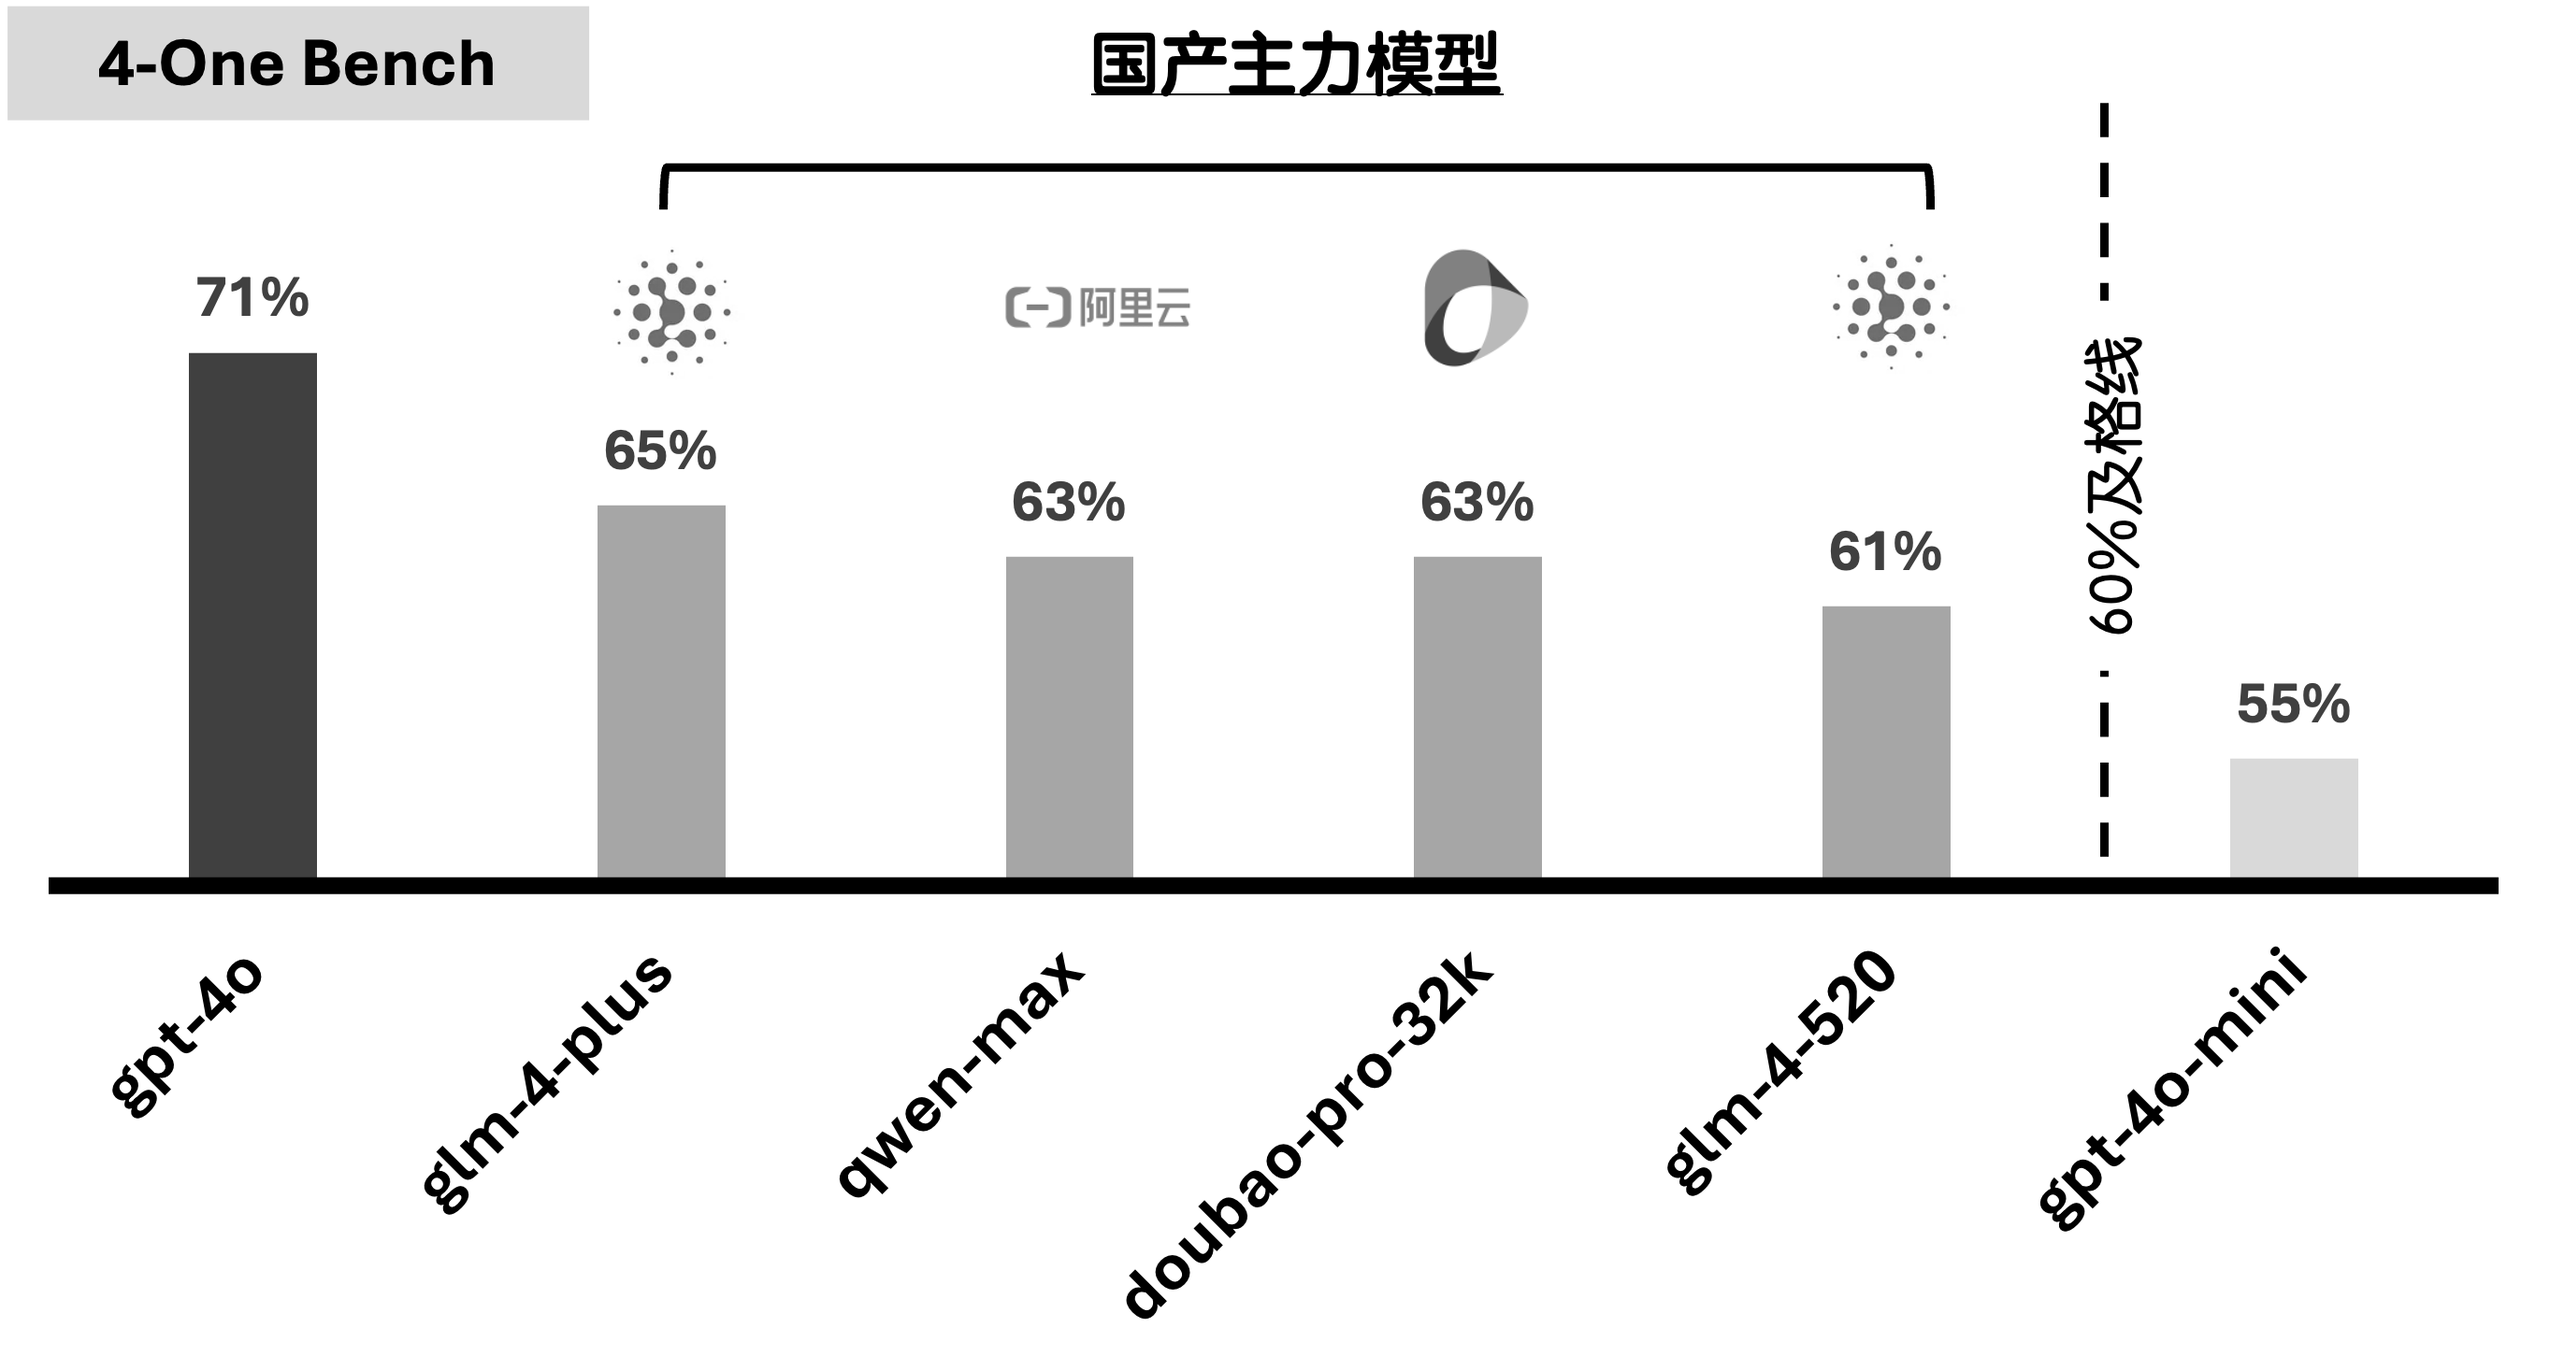
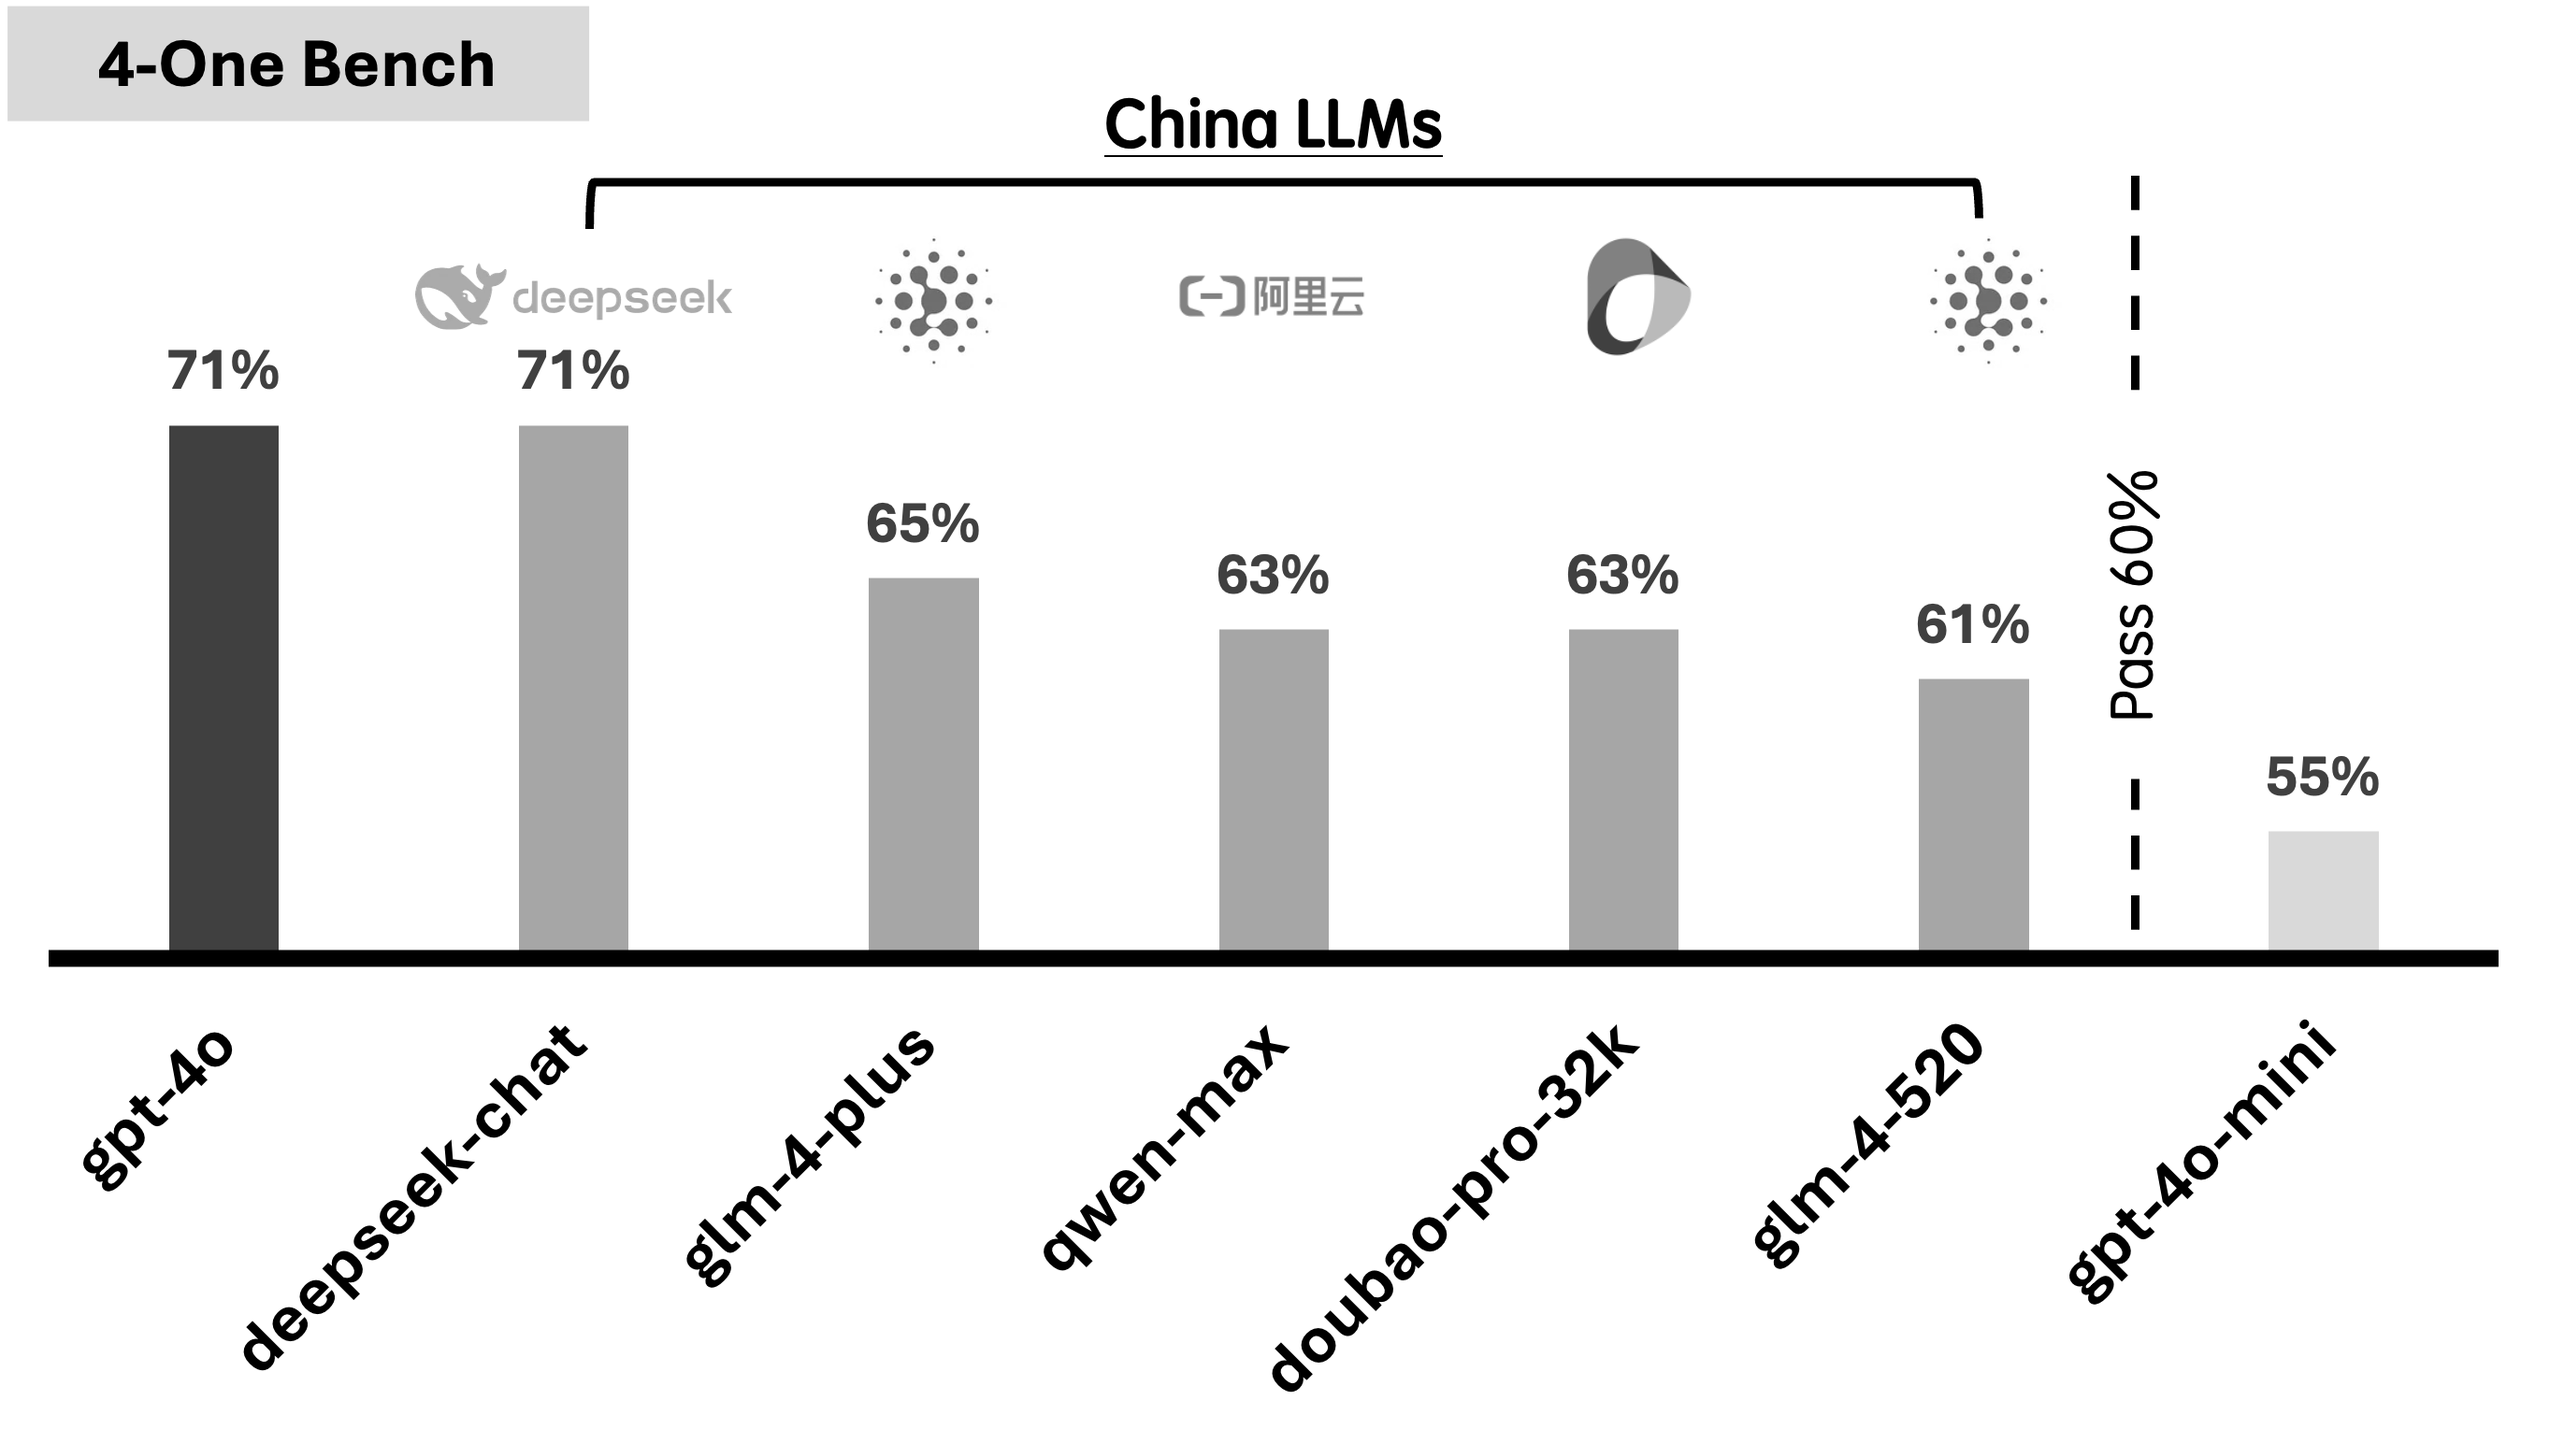
Update to support the model 'deepseek-chat'

diff --git a/app/llms/general.py b/app/llms/general.py
@@ -1,5 +1,5 @@
 import os
-from llms import zhipu,openai,qwen,doubao
+from llms import zhipu,openai,qwen,doubao,deepseek
 from util import constant
 from util.tools import extract_json
 from util.logger import logger
@@ -25,6 +25,10 @@ def complete_verify(sys_msg, usr_msg):
         messages = doubao.format_messages(sys_msg,usr_msg)
         data_json = doubao.completion(messages, temperature=0, model=constant.DOUBAO_VERIFIER)
         result = extract_json(data_json)
+    elif model in constant.DEEPSEEK_FAMILY:
+        messages = deepseek.format_messages(sys_msg,usr_msg)
+        data_json = deepseek.completion(messages, temperature=1.0, model=constant.DEEPSEEK_VERIFIER)
+        result = extract_json(data_json) 
     return result
 
 
@@ -45,10 +49,15 @@ def complete(sys_msg, usr_msg):
         result = qwen.completion(messages, 
                                 model= model, 
                                 temperature=0)
-    elif model in constant.DOUBAOPRO32K:
+    elif model in constant.DOUBAO_FAMILY:
         messages = doubao.format_messages(sys_msg,usr_msg)
         result = doubao.completion(messages, 
                                 model= model, 
                                 temperature=0)
+    elif model in constant.DEEPSEEK_FAMILY:
+        messages = deepseek.format_messages(sys_msg,usr_msg)
+        result = deepseek.completion(messages, 
+                                model= model, 
+                                temperature=1.0)
     return result
     

diff --git a/app/app.py b/app/app.py
@@ -49,7 +49,7 @@ if "few_shots" not in st.session_state:
 with st.sidebar:
     st.session_state.model = st.selectbox(
         "生成模型：", 
-        ('glm-4-plus','glm-4-0520', 'glm-4-flash','glm-4-air','gpt-4o','gpt-4o-mini','qwen-max', 'qwen-plus', 'doubao-pro-32k')
+        ('glm-4-plus','glm-4-0520', 'glm-4-flash','glm-4-air','gpt-4o','gpt-4o-mini','qwen-max', 'qwen-plus', 'doubao-pro-32k', 'deepseek-chat')
     )
     if st.session_state.model:
         os.environ['MODEL'] = st.session_state.model
@@ -59,7 +59,7 @@ with st.sidebar:
         END_POINT = st.text_input("模型接入点", placeholder="接入点名称")
         
     num_of_record = st.number_input("数据条数:", value=1, max_value=len(st.session_state.few_shots), min_value=1)
-    st.write(f"我们使用：\n1. **{constant.OPENAI_VERIFIER}** 验证 OpenAI 系列模型； \n2. **{constant.GLM_VERIFIER}** 验证 GLM 系列模型； \n3. **{constant.QWEN_VERIFIER}** 验证 QWEN 系列模型； \n4. **{constant.DOUBAO_VERIFIER}** 验证 DOUBAO 系列模型。")
+    st.write(f"我们使用：\n1. **{constant.OPENAI_VERIFIER}** 验证 OpenAI 系列模型； \n2. **{constant.GLM_VERIFIER}** 验证 GLM 系列模型； \n3. **{constant.QWEN_VERIFIER}** 验证 QWEN 系列模型； \n4. **{constant.DOUBAO_VERIFIER}** 验证 DOUBAO 系列模型。\n5. **{constant.DEEPSEEK_VERIFIER}** 验证 DEEPSEEK 系列模型。")
 
 # Setup tabs    
 tab_eval,tab_questionnir = st.tabs(["评估", "问题列表"])

diff --git a/app/llms/deepseek.py b/app/llms/deepseek.py
@@ -1,0 +1,48 @@
+import os
+from dotenv import load_dotenv
+from openai import OpenAI
+from util import constant
+
+load_dotenv()
+
+def launch_client():
+    API_KEY = os.getenv('API_KEY')
+    if API_KEY is None:
+        API_KEY = os.getenv('DEEPSEEK_API_KEY')
+    os.environ["OPENAI_API_KEY"] = API_KEY
+    client = OpenAI(api_key=API_KEY, base_url="https://api.deepseek.com")
+    return client
+
+def format_messages(sys_msg, user_msg, historicals=None):
+    messages = []
+    if sys_msg != "":
+        messages.append({"role": "system", "content": sys_msg})
+    
+    if historicals:
+        for s in historicals:
+            messages.append({"role": s["role"], "content": s["content"]})
+    
+    if user_msg != "":
+        messages.append( {"role": "user", "content": user_msg})   
+    #print(f"messages are sent to llms: \n\n {messages}")
+    return messages
+
+def completion(
+        msgs,
+        model = constant.DEEPSEEKCHAT,
+        stream = False,
+        temperature = 0.05
+    ):
+    client = launch_client()
+    full_response = ""
+    completion = client.chat.completions.create(
+        model = model,
+        messages = msgs,
+        temperature = temperature
+    )
+
+    if stream:
+        for chunk in completion:
+            full_response += chunk.choices[0].delta.content
+    else: full_response += completion.choices[0].message.content
+    return full_response

diff --git a/app/util/constant.py b/app/util/constant.py
@@ -24,6 +24,11 @@ DOUBAOPRO32K = "doubao-pro-32k"
 DOUBAO_VERIFIER = DOUBAOPRO32K
 DOUBAO_FAMILY = [DOUBAOPRO32K]
 
+#DEEPSEEK
+DEEPSEEKCHAT = "deepseek-chat"
+DEEPSEEK_VERIFIER = DEEPSEEKCHAT
+DEEPSEEK_FAMILY = [DEEPSEEKCHAT]
+
 DEFAULT_MODEL = GLM4PLUS
 
 MAX_RETRY = 3

diff --git a/README.md b/README.md
@@ -29,6 +29,12 @@ Considering the critical factors of response time and accuracy in real business 
 4-One Bench has developed a proprietary syntax for defining the orchestration of IT assets. Users also have the flexibility to create their own custom syntax.
 ![Syntax](images/syntax.png)
 
+## LLMs Supported
+1. OpenAI: gpt-4o, gpt-4o-mini; 
+2. Zhipu: glm-4-plus, glm-4-0520, glm-4-flash, glm-4-air;
+3. Ali Cloud: qwen-max, qwen-plus
+4. Bytedance: doubao-pro-32k
+5. Deepseek: deepseek-chat 
 ## Demo
 
 ## Launch the evaluation
